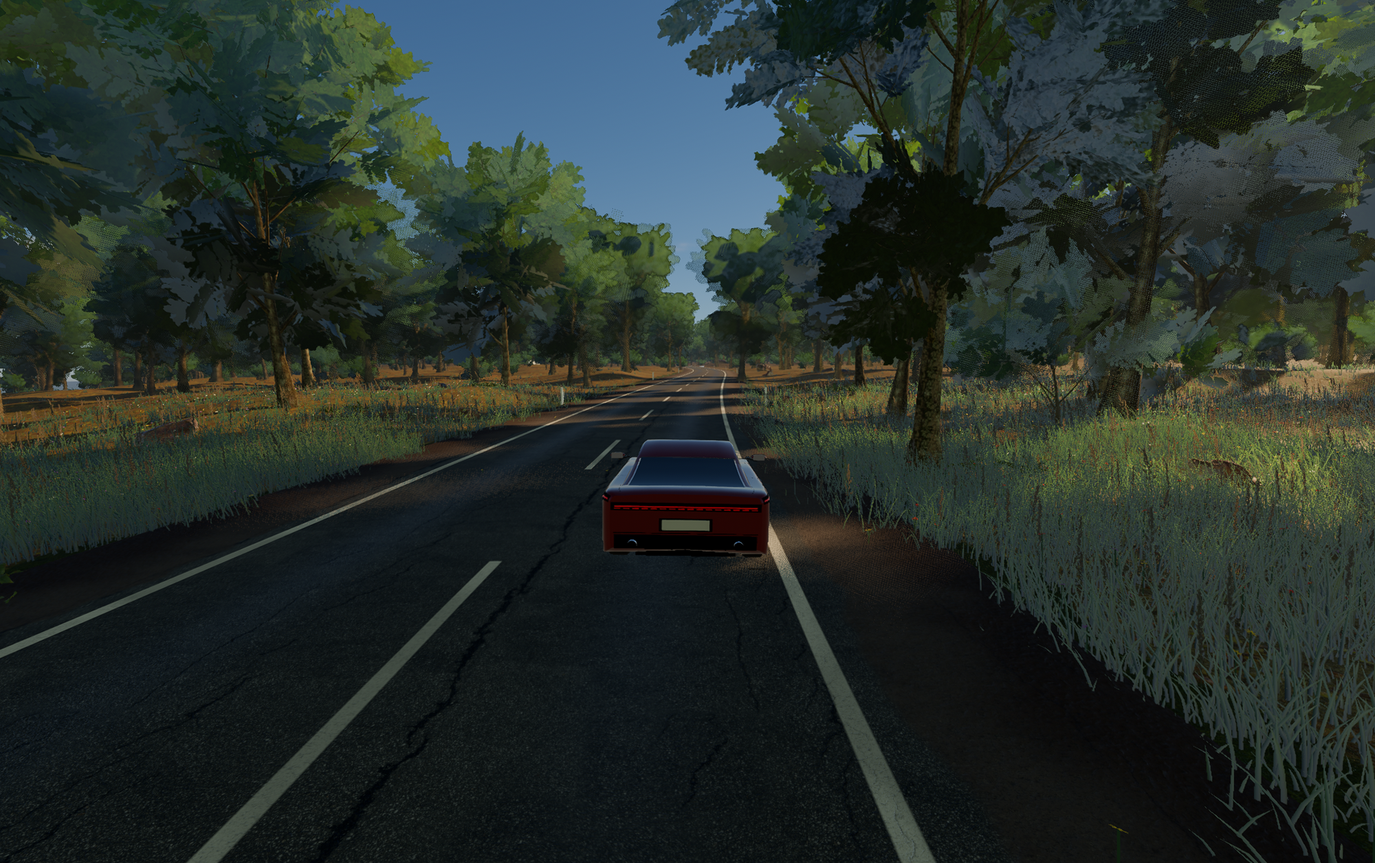
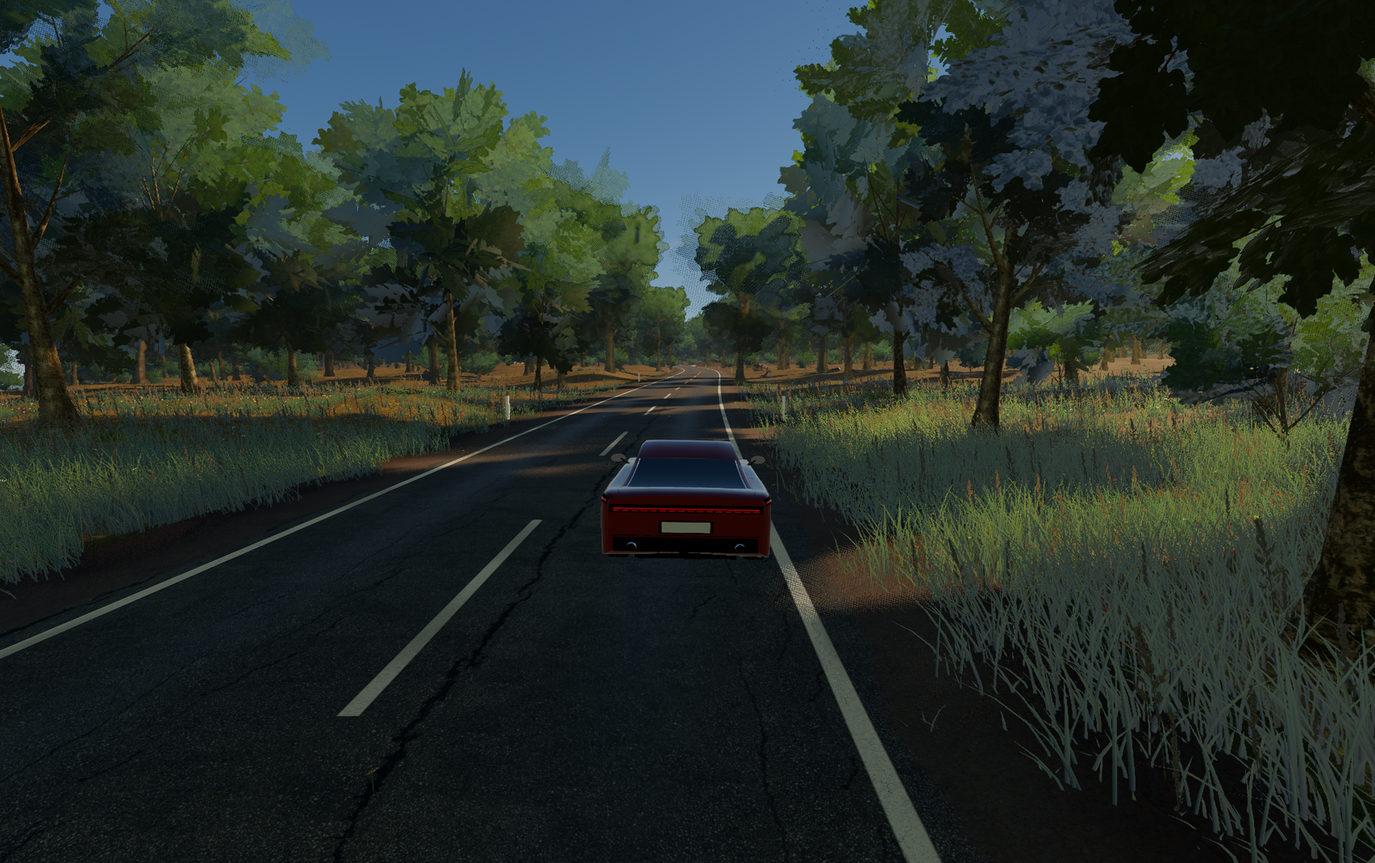
Rebuild the wheels: solid tyres with tread, closed rims, thicker spokes; attached door mirrors with glass; arch liners stay inside the body; parked static shots at golden hour; README gallery and setup

diff --git a/README.md b/README.md
@@ -1,14 +1,40 @@
 # Horyzont
 
+![Złota godzina przy drodze](docs/shots/01_golden_bok.jpg)
+
 Spokojny road trip po wyspie na Atlantyku. Jeździsz krętą drogą wzdłuż klifów, plaż i
 przełęczy, czekasz na idealne światło i robisz zdjęcia-pocztówki. Niebo, chmury, pogoda,
 teren, auto i dźwięk są w całości proceduralne (Godot 4.7, Metal).
 
+## Ujęcia
+Statyczna scena: auto stoi, a obraz ma czas się ustabilizować. Preset Ultra w pełnej rozdzielczości (2940×1846), klatki z gry bez retuszu.
+
+| | |
+|---|---|
+| ![Golden hour od tyłu](docs/shots/02_golden_tyl.jpg) | ![Pod słońce](docs/shots/03_golden_pod_slonce.jpg) |
+| ![Koło w złotym świetle](docs/shots/04_golden_kolo.jpg) | ![Droga przez las](docs/shots/05_golden_las.jpg) |
+| ![Zachód nad morzem](docs/shots/06_golden_morze.jpg) | ![Klify](docs/shots/07_golden_klify.jpg) |
+| ![Wyspa z lotu](docs/shots/08_golden_wyspa.jpg) | ![Poranna mgła](docs/shots/09_poranna_mgla.jpg) |
+| ![Burzowy zachód](docs/shots/10_burza.jpg) | ![Jazda w złotej godzinie](screenshots/01_zlota_godzina.png) |
+
 ## Uruchomienie
-Dwuklik `Horyzont.app` (albo `Horyzont.command`), lub:
+Wymaga Godota 4.7 (Forward+). Gra powstała i była testowana na macOS z Metal. Po sklonowaniu raz zaimportuj zasoby:
+```bash
+godot --headless --path . --import
 ```
-godot --path ~/dev/horyzont
+Potem dwuklik `Horyzont.command` albo:
+```bash
+godot --path .
 ```
+
+## Wydajność
+MacBook Air M4, 2940×1658, render w 58% rozdzielczości i MetalFX. Pełny ekran jest o około 1 ms na klatkę wolniejszy.
+
+| Preset | Otwarta trasa | Las |
+|---|---|---|
+| Wysoka | 46 fps | 40 fps |
+| Średnia | 65 fps | 54 fps |
+| Niska | 78 fps | 60 fps |
 
 ## Sterowanie
 | Klawisz | Akcja |
@@ -31,3 +57,6 @@ Dziewięć miejsc na wyspie wymaga konkretnego światła albo pogody, np. złote
 klifach, niebieskiej godziny albo mgły w dolinie. Na miejsce prowadzi świetlny słup i
 kompas w HUD. 3 gwiazdki dostajesz, gdy warunki się zgadzają, a słońce jest w kadrze.
 Zdjęcia trafiają do albumu (menu → Album).
+
+## Zasoby
+Tekstury, liście i modele są na licencji CC0, źródła w [assets/CREDITS.md](assets/CREDITS.md).

diff --git a/NOTES.md b/NOTES.md
@@ -14,7 +14,10 @@ dev/run.sh 90 --windowed --resolution 1280x800 -- --shots=res://dev/shots_sky.js
 
 Argumenty gry (po `--`): `--time=19.5`, `--weather=pogodnie`, `--cam=x,y,z`,
 `--look=x,y,z`, `--shots=<json>` (renderuje listę ujęć do PNG i wychodzi),
-`--dump_noise`, `--no_dome`, `--debug_sky`.
+`--dump_noise`, `--no_dome`, `--debug_sky`, `--quality=ultra`, `--scale=1.0`.
+
+Ujęcia do `docs/shots`: `dev/run.sh 400 --windowed --resolution 2940x1846 -- --shots=res://dev/shots_static.json --quality=ultra --scale=1.0`.
+Ujęcie z polem `park` zatrzymuje auto na drodze, a `car_cam` ustawia kamerę względem auta. Wynik trafia do `dev/out/static`, a do repo idzie JPG.
 
 ## Architektura
 
@@ -108,6 +111,8 @@ Pomiary mają sens tylko gdy nic innego nie używa GPU: przed ławką `pgrep -x 
 - MultiMesh bez ustawionych transformacji ma macierze zerowe: nawet przy własnych pozycjach trzeba wpisać Identity.
 - Przy interpolacji mapy ekosystemu liczy się rozdzielczość: 5 m/texel wynosiło trawę na asfalt, stąd 2,5 m i próg w shaderze.
 - Dwie warstwy przenikania LOD muszą używać przeciwnych końców tego samego szumu, inaczej zostają dziury.
+- `_lathe` bierze stronę zewnętrzną z kierunku profilu. Liczenie jej od osi koła odwracało boki opony, bo ich normalna jest równoległa do osi.
+- Tył felgi leży tuż za ramionami (x = 0,03), inaczej przez koło widać lakier z głębi nadkola.
 - Kadr impostora bierz z wierzchołków, nie z nominalnej wysokości: korona wystaje ponad `_height` i traciła czubek. Górne 3,5% komórki shader odrzuca, bo mipy wchodzą tam w pień z rzędu wyżej.
 
 ## Stan / następne kroki (30.10, wieczór)
